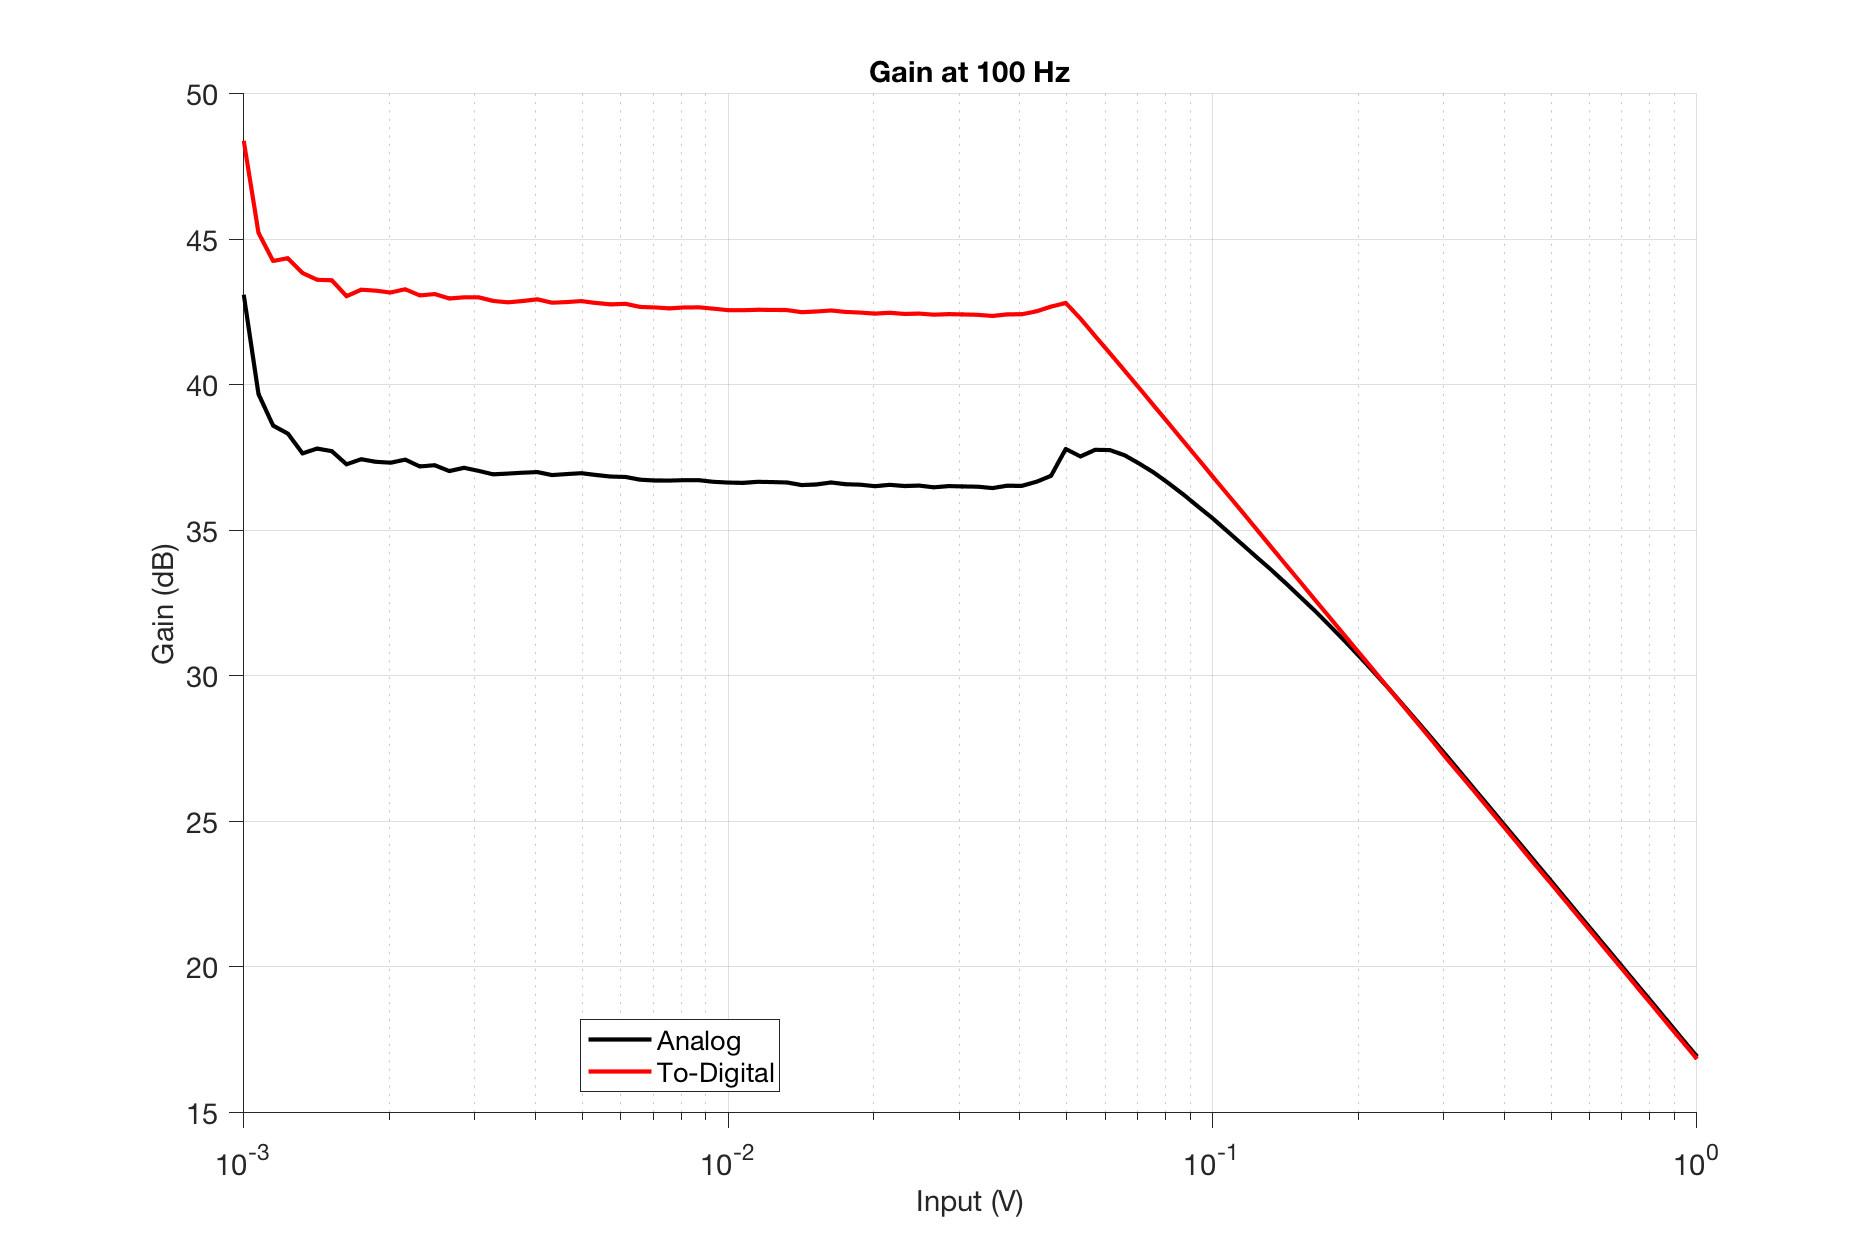
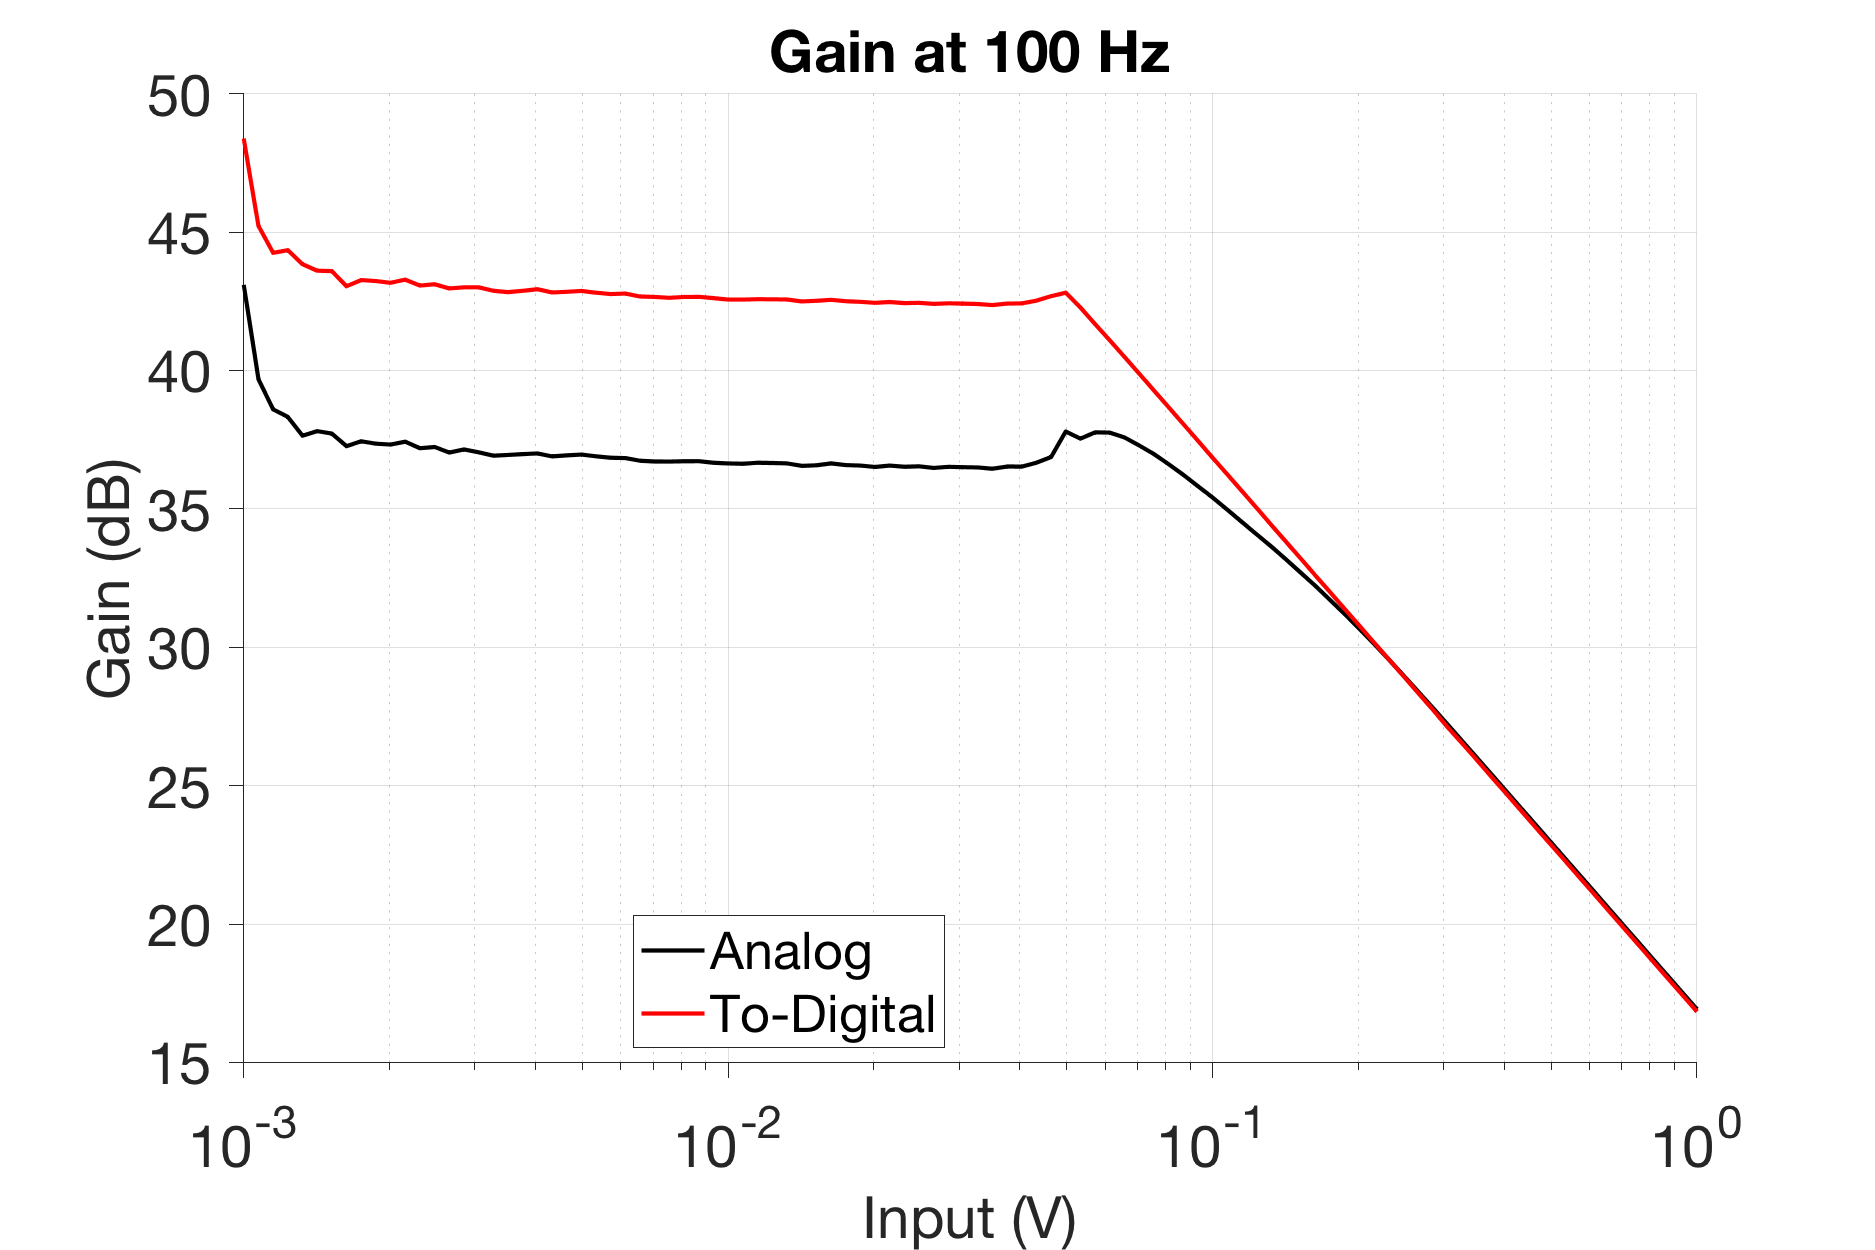
Font size

diff --git a/Software/SpecAutom/specFigs.m b/Software/SpecAutom/specFigs.m
@@ -28,7 +28,7 @@ xlabel('Frequency (Hz)')
 ylabel('Response (dB)');
 title('Frequency Response for Sinusoidal Input')
 legend('Analog','To-Digital','location','best');
-fixplot;
+fixplot(28);
 print -dpng FRQResp
 
 %% Gain
@@ -39,7 +39,7 @@ xlabel('Input (V)');
 ylabel('Gain (dB)')
 title('Gain at 100 Hz');
 legend('Analog','To-Digital','location','best');
-fixplot
+fixplot(28)
 print -dpng Gain
 
 G = Y(55,:);
@@ -52,7 +52,7 @@ xlabel('Frequency (Hz)');
 ylabel('Rejection Ratio (dB)');
 title('CMRR versus Frequency at 10 mV');
 legend('Analog','To-Digital','location','best');
-fixplot;
+fixplot(28);
 print -dpng CmrrFRQ
 
 figure(4);
@@ -62,7 +62,7 @@ xlabel('Input (V)');
 ylabel('Rejection Ratio (dB)');
 title('CMRR versus Amplitude at 100 Hz');
 legend('Analog','To-Digital','location','best');
-fixplot;
+fixplot(28);
 print -dpng CmrrAMP
 
 fprintf('CMRR1: %0.0f (%0.2f)\n',Y(end,1),10^(Y(end,1)/20))
@@ -76,7 +76,7 @@ xlabel('Frequency (Hz)');
 ylabel('Signal to Noise Ratio (dB)');
 title('SNR versus Frequency at 10 mV');
 legend('Analog','To-Digital','location','best');
-fixplot;
+fixplot(28);
 print -dpng SnrFRQ
 
 fprintf('SNR1: %0.0f (%0.2f)\n',Y(67,1),10^(Y(67,1)/20))
@@ -89,7 +89,7 @@ xlabel('Input (V)');
 ylabel('Signal to Noise Ratio (dB)');
 title('SNR versus Amplitude at 100 Hz');
 legend('Analog','To-Digital','location','best');
-fixplot;
+fixplot(28);
 print -dpng SnrAMP
 
 fprintf('BNL1: %f\n', mean(sqrt(AC{1}(:,3).^2)));
@@ -102,7 +102,7 @@ semilogx(F, Y(:,1), 'k');
 xlabel('Frequency (Hz)');
 ylabel('Max Current (mA)')
 title('Max Current versus Frequency at 10 mV');
-fixplot;
+fixplot(28);
 print -dpng PowerFRQ
 
 figure(8);
@@ -111,7 +111,7 @@ semilogx(A, Y(:,1), 'k');
 xlabel('Input (V)');
 ylabel('Max Current (mA)')
 title('Max Current versus Amplitude at 100 Hz');
-fixplot
+fixplot(28)
 print -dpng PowerAMP
 
 %% Auxiliary Functions

diff --git a/Software/SpecAutom/perfAnyl.m b/Software/SpecAutom/perfAnyl.m
@@ -20,11 +20,12 @@ clear dat
 
 %% Error Bar Plot
 figure(1)
-errorbar(repmat(R',[1 3]),100*M(:,:,2)',100*D(:,:,2)',100*D(:,:,2)')
+errorbar(repmat(R',[1 3]),100*M(:,:,2)',100*D(:,:,2)',100*D(:,:,2)','LineWidth',3)
+legend('Bicep','Forearm','Thumb','location','best')
 xlabel('Gain Resistance (K\Omega)')
 ylabel('False Positive Rate (%)')
 title('False Positive for Increasing Gain Resistance')
-fixplot
+fixplot(28)
 print -dpng SpecPlot
 
 %% Lilliefors
